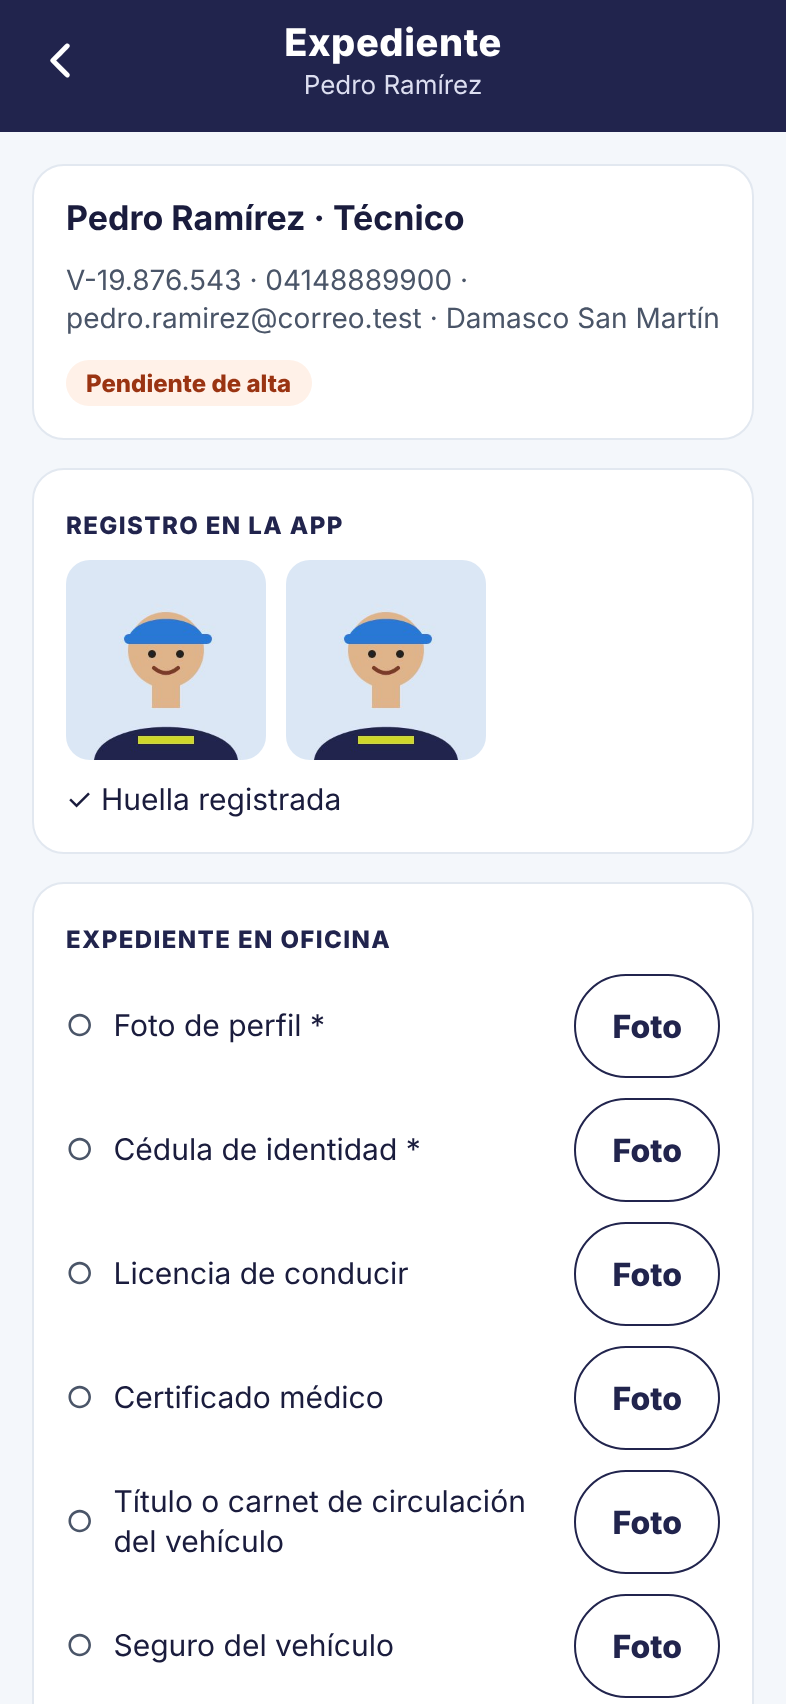
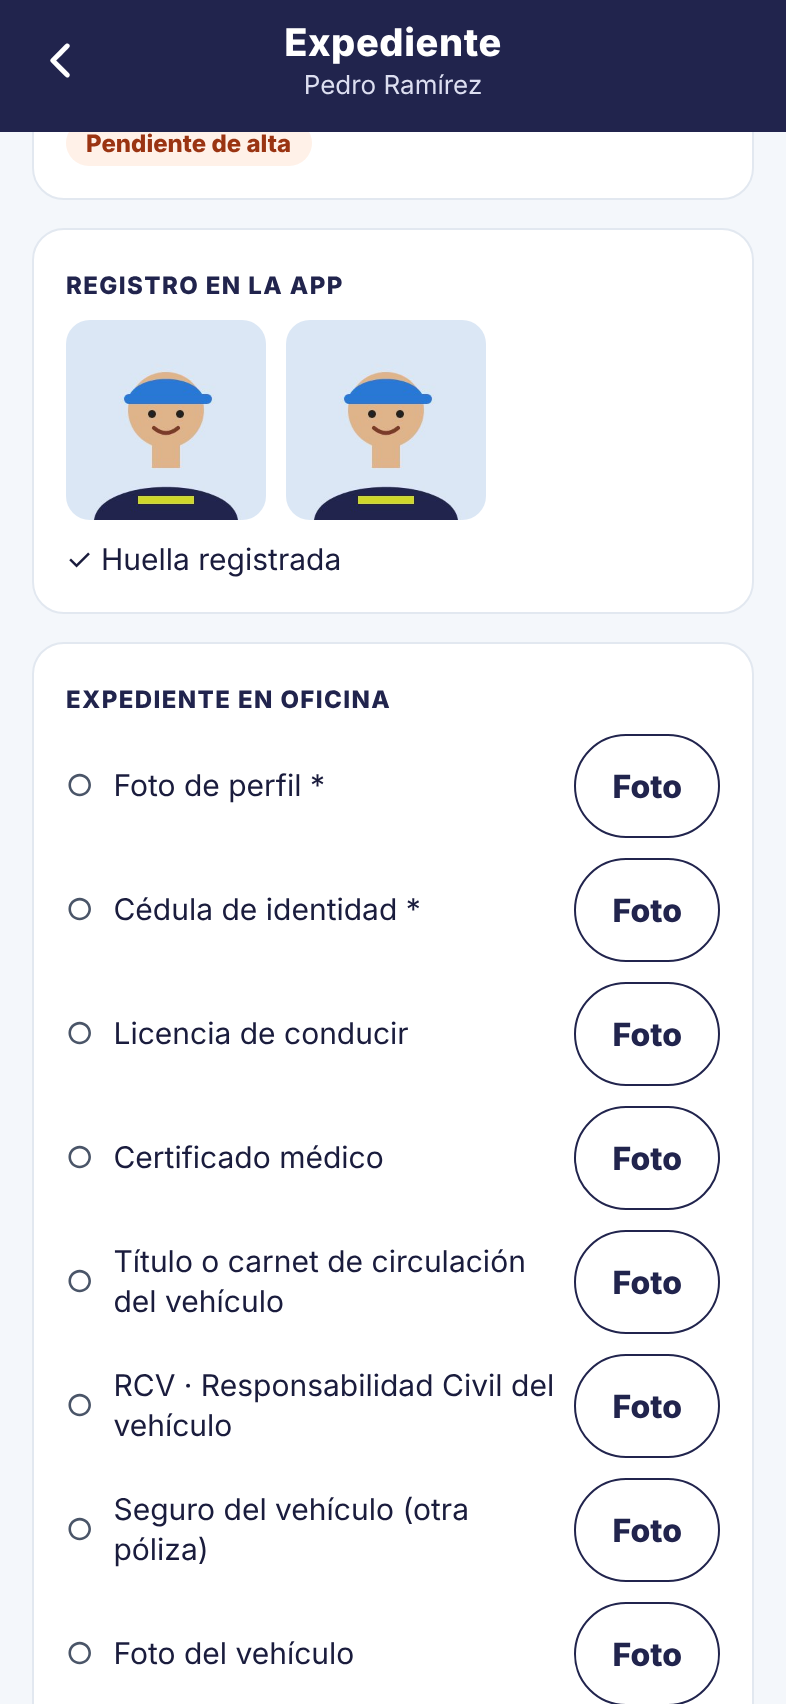
Expediente del técnico: RCV (Responsabilidad Civil del vehículo)
Claude-Session: https://claude.ai/code/session_014SMz9zz3oS1yaniiLYwkLp

diff --git a/backend/tests/test_flujo.py b/backend/tests/test_flujo.py
@@ -182,10 +182,10 @@ def test_registro_en_app_y_alta_en_oficina(client):
     assert any("bancarios" in f for f in r.json()["detail"]["faltan"])
     client.put(f"/supervisor/tecnicos/{tec_id}/cuenta-bancaria", json={"banco": "Banco de Venezuela", "tipo": "ahorro",
                "numero": "0102-0000-00-0000000000", "titular": "Kevin Suárez", "cedula": "V-25123456"}, headers=oficina)
-    for tipo in ("foto_perfil", "cedula", "licencia", "vehiculo_titulo", "vehiculo_seguro"):
+    for tipo in ("foto_perfil", "cedula", "licencia", "vehiculo_titulo", "vehiculo_rcv", "vehiculo_seguro"):
         client.post(f"/supervisor/tecnicos/{tec_id}/documentos", json={"tipo": tipo, "url": f"/archivos/{tipo}.jpg"}, headers=oficina)
     exp = client.get(f"/supervisor/tecnicos/{tec_id}/expediente", headers=oficina).json()
-    assert len(exp["documentos"]) == 5 and exp["documentos_faltantes"] == []
+    assert len(exp["documentos"]) == 6 and "vehiculo_rcv" in exp["tipos_documento"] and exp["documentos_faltantes"] == []
     assert client.post(f"/supervisor/tecnicos/{tec_id}/alta", json={"grupo": "X"}, headers=oficina).status_code == 422
     r = client.post(f"/supervisor/tecnicos/{tec_id}/alta", json={"grupo": "B"}, headers=oficina).json()
     assert r["verificado"] and r["grupo"] == "B" and r["foto_perfil"] == "/archivos/foto_perfil.jpg"

diff --git a/backend/app/models.py b/backend/app/models.py
@@ -317,7 +317,8 @@ TIPOS_DOCUMENTO = {
     "licencia": "Licencia de conducir",
     "certificado_medico": "Certificado médico",
     "vehiculo_titulo": "Título o carnet de circulación del vehículo",
-    "vehiculo_seguro": "Seguro del vehículo",
+    "vehiculo_rcv": "RCV · Responsabilidad Civil del vehículo",
+    "vehiculo_seguro": "Seguro del vehículo (otra póliza)",
     "vehiculo_foto": "Foto del vehículo",
     "rif": "RIF",
     "antecedentes": "Constancia de antecedentes",
